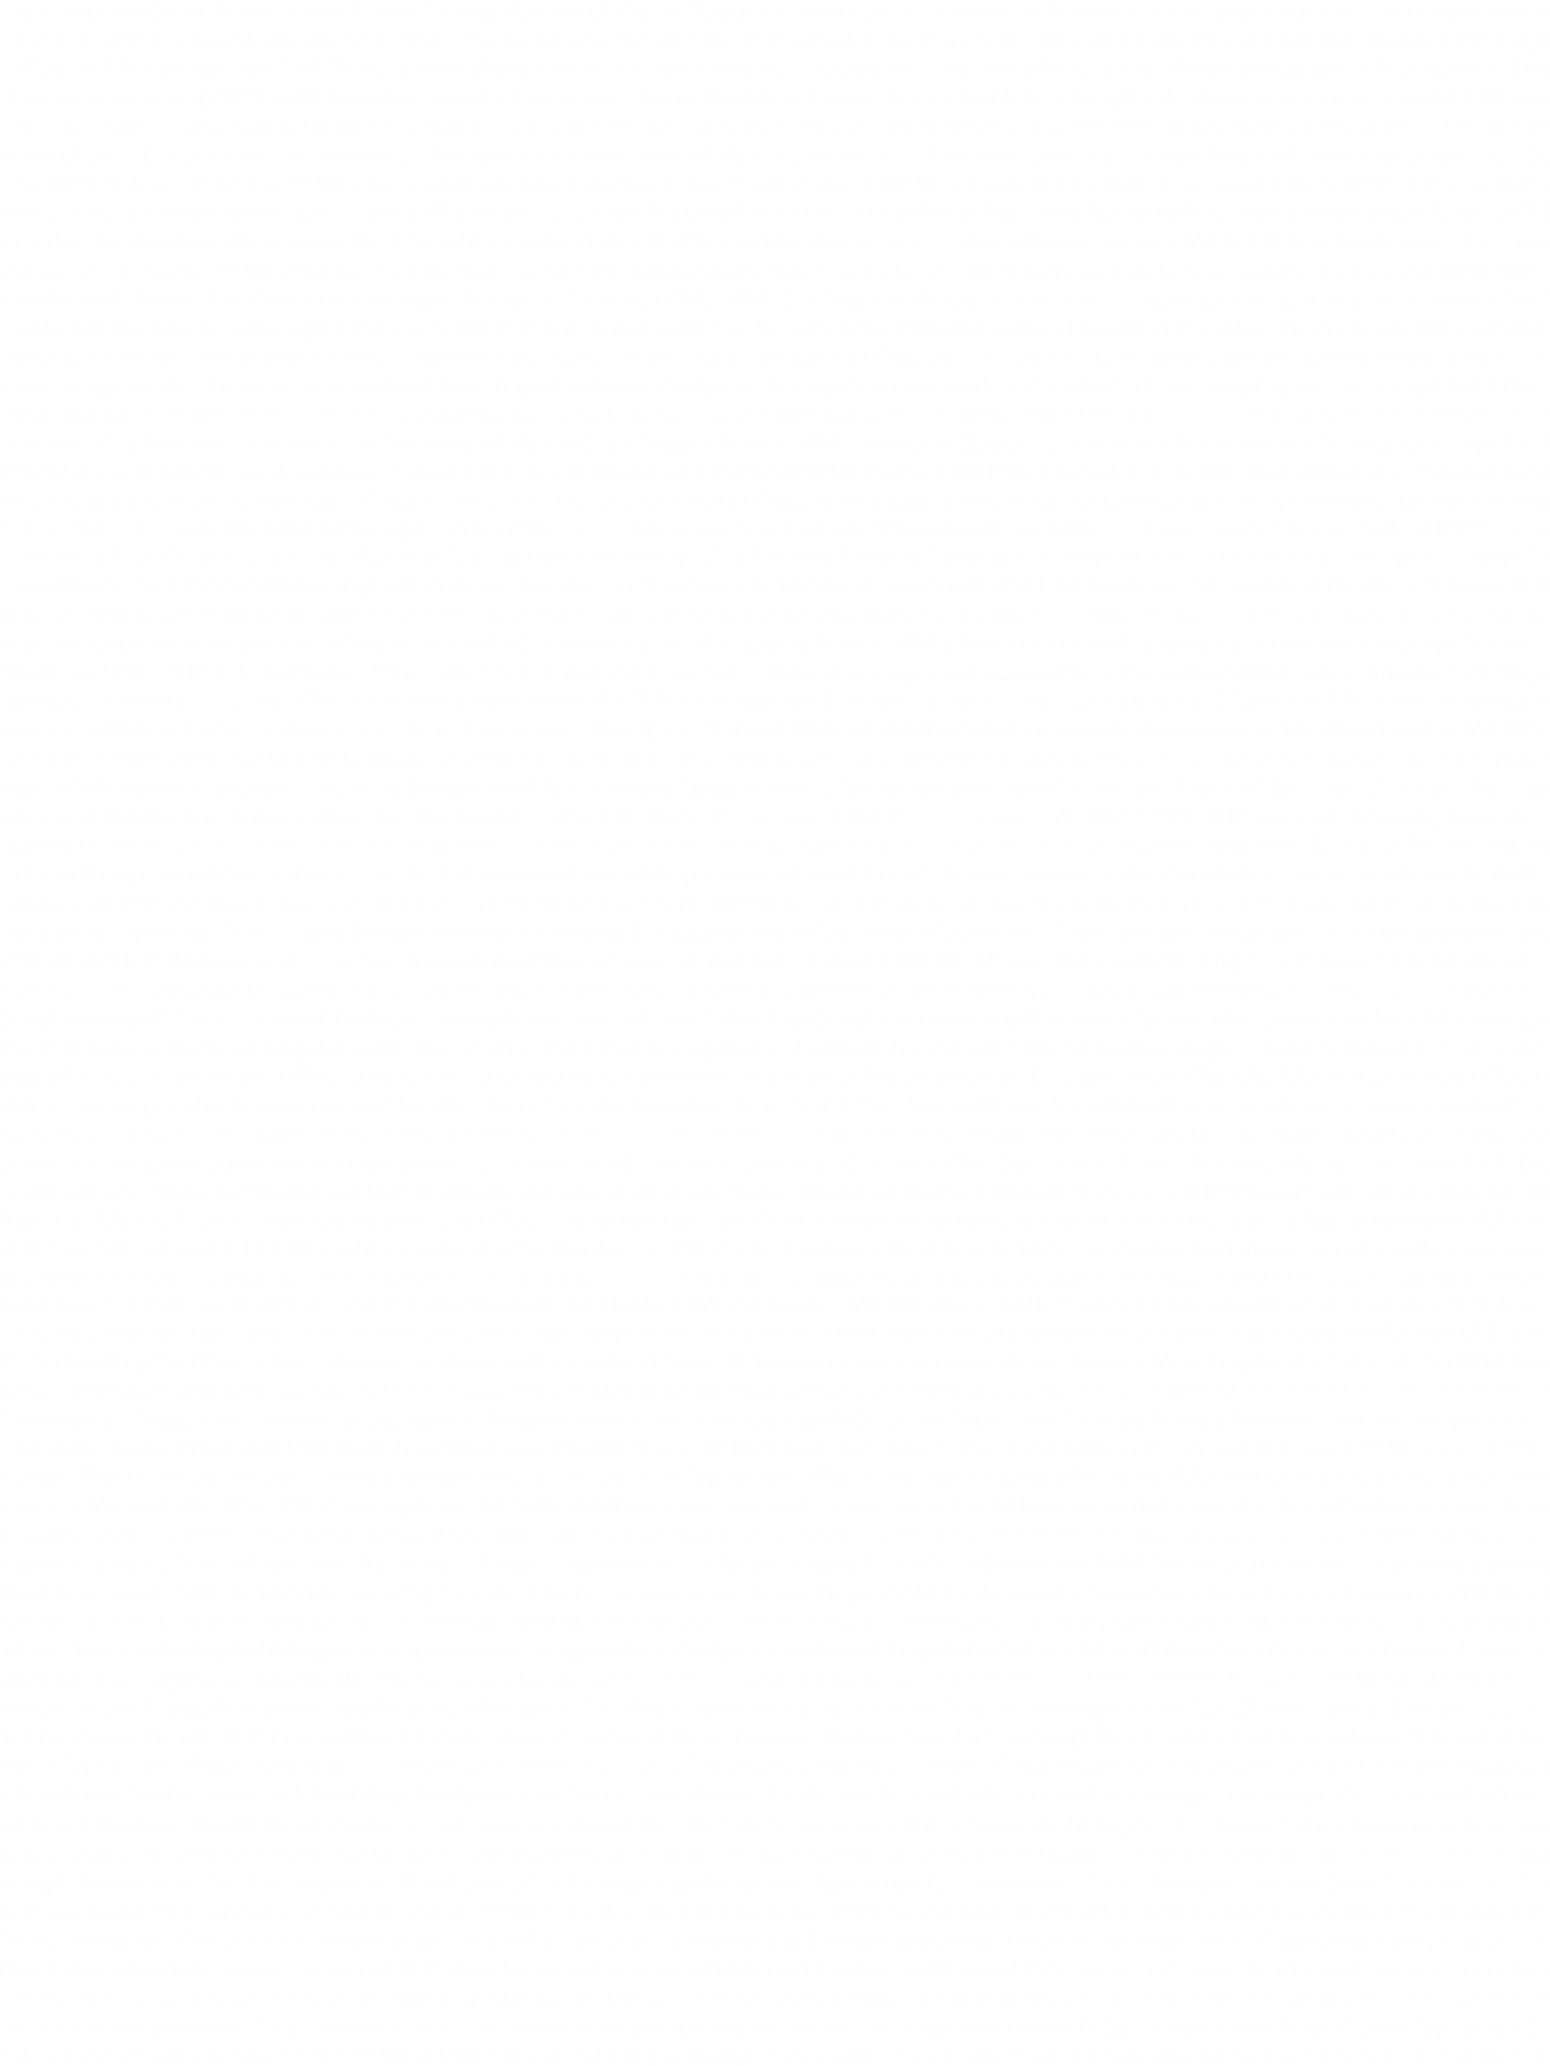
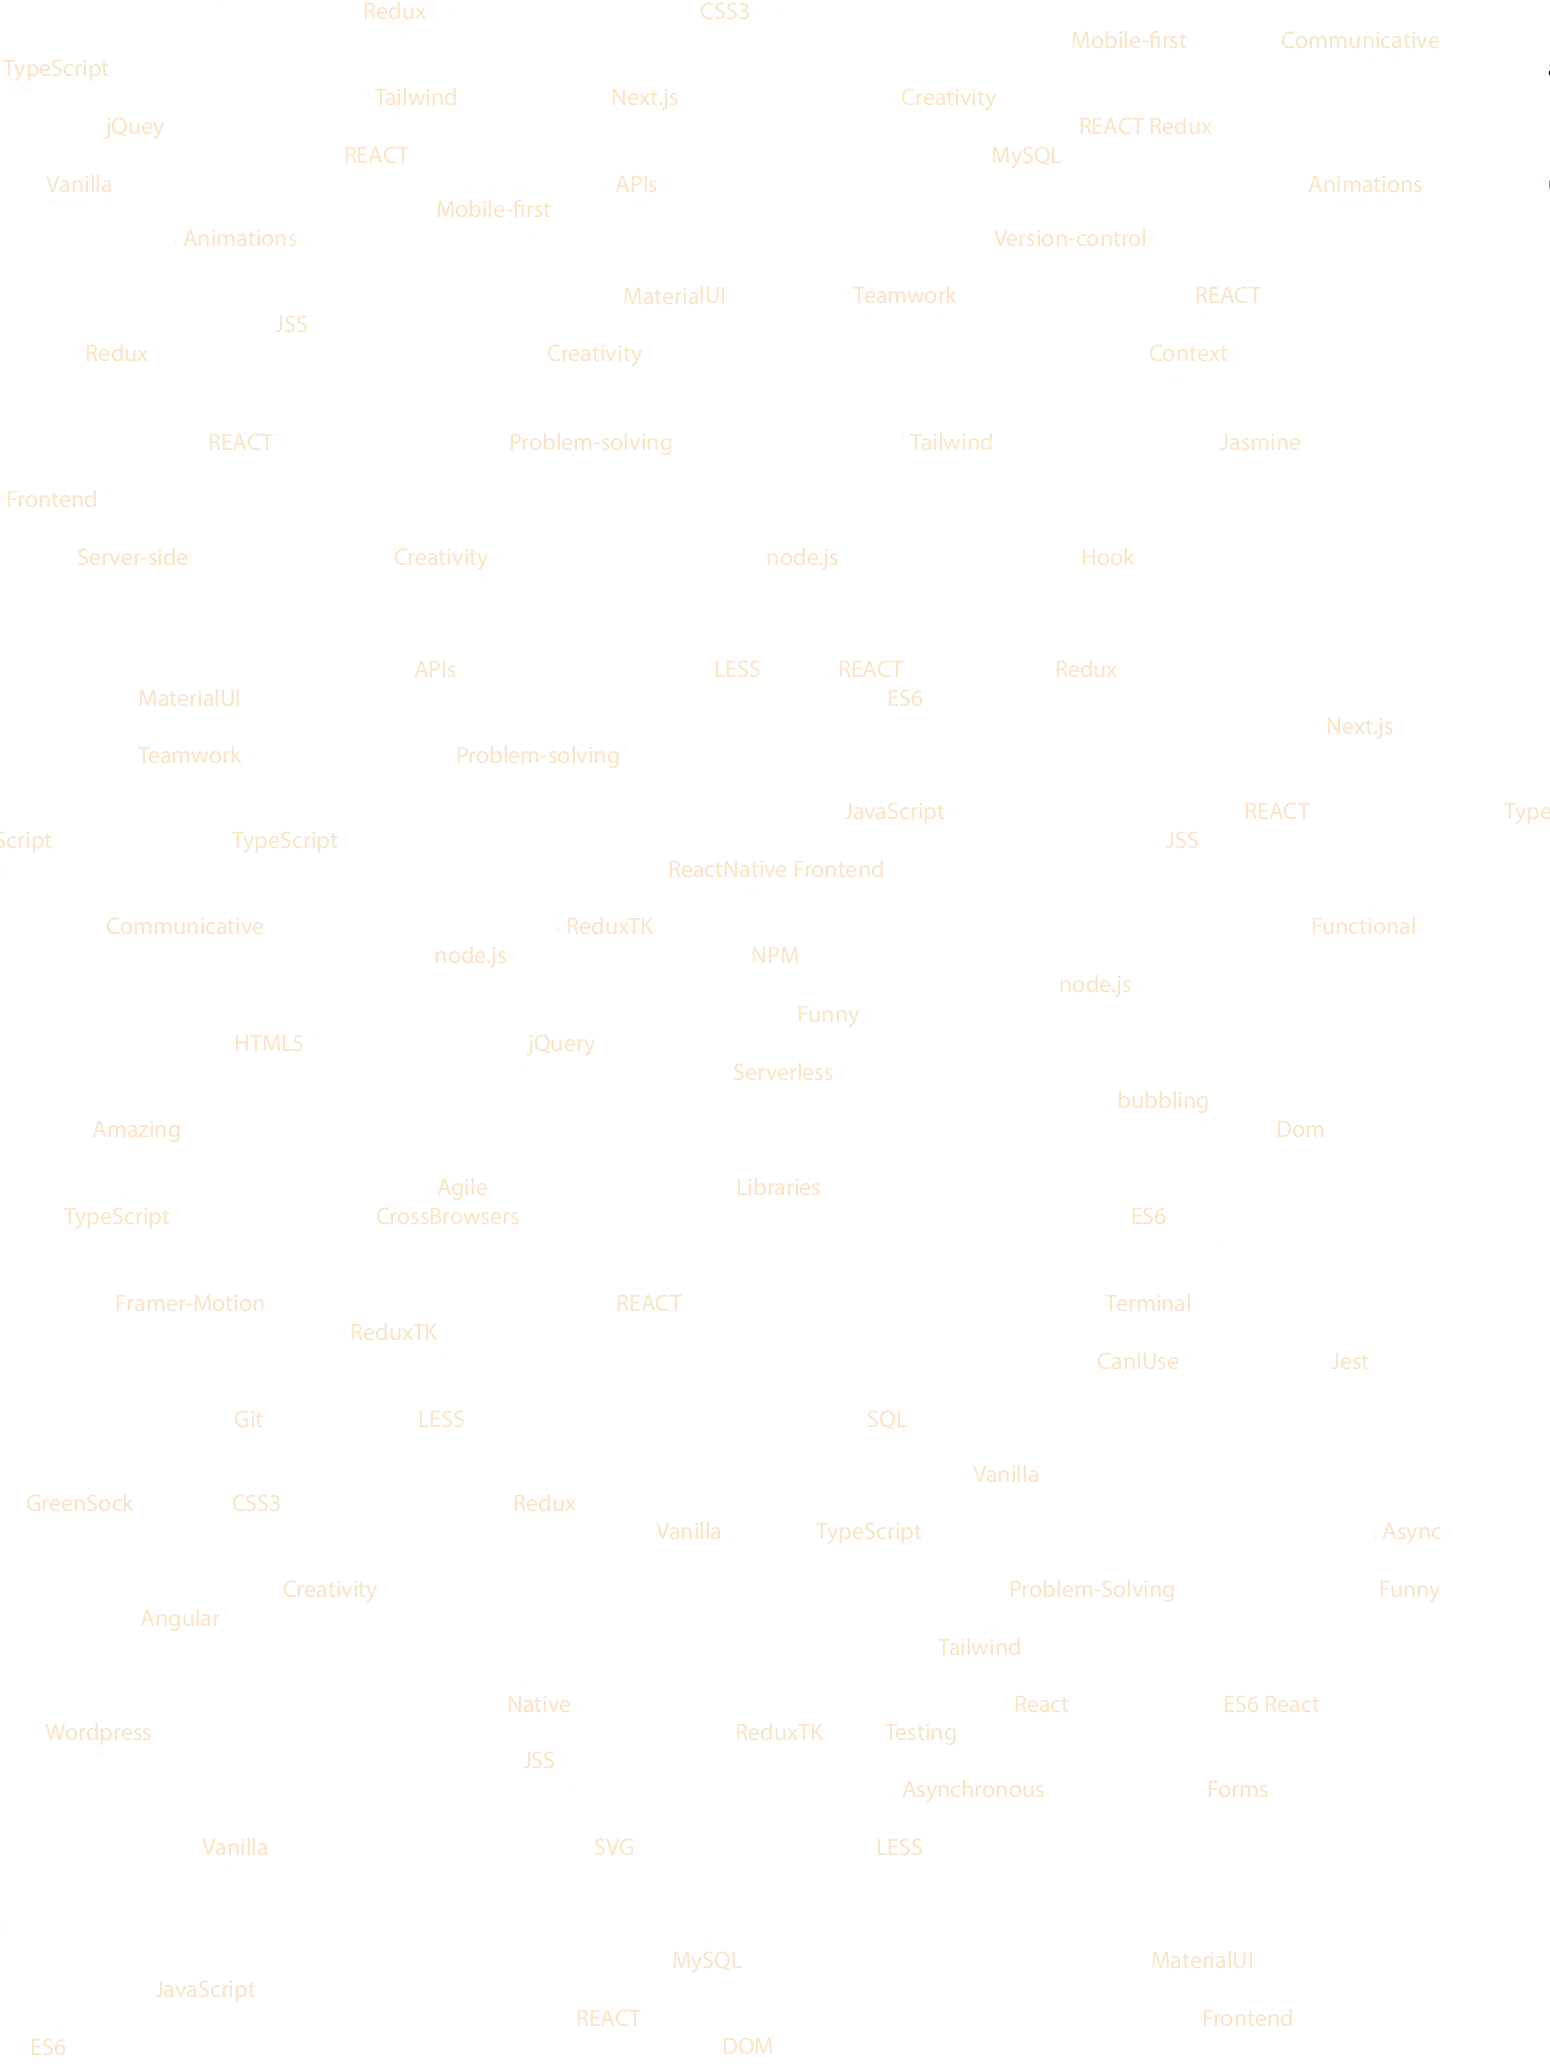
scrolling bg included with colors fixed design

diff --git a/src/Components/MainContent/Projects/LazyProject/LazyProject.jsx b/src/Components/MainContent/Projects/LazyProject/LazyProject.jsx
@@ -11,14 +11,14 @@ import ddbc from "../mp4/ddbc.mp4";
 import { isMobileSafari } from "react-device-detect";
 
 const LazyProject = ({ width, height, src, title, description, ...rest }) => {
+  const { current, numOfProjects } = rest;
   const wrapper = useRef();
   const [hasShown, setHasShown] = useState(false);
   const theme = useTheme();
   const videoPlayer = useRef();
+  const isXs = useMediaQuery(theme.breakpoints.down("sm"));
 
   const [isPlay, setIsPlay] = useState(false);
-
-  const isXs = useMediaQuery(theme.breakpoints.down("sm"));
 
   const { ref, inView, entry } = useInView({
     threshold: [0.2, 0.4],
@@ -57,6 +57,7 @@ const LazyProject = ({ width, height, src, title, description, ...rest }) => {
     // }
     setIsPlay(inView);
   }, [inView]);
+  console.log(current, numOfProjects);
 
   return (
     <motion.div
@@ -66,9 +67,10 @@ const LazyProject = ({ width, height, src, title, description, ...rest }) => {
         display: "flex",
         justifyContent: "center",
         alignItems: "center",
-        marginBottom: !isXs ? "150px" : "130px",
+        marginBottom: current + 1 == numOfProjects ? "-20rem" : "14rem",
         minHeight: !isXs ? "530px" : "100px",
         flexDirection: "column",
+        minHeight: "60vh",
       }}
       variants={variants}
     >

diff --git a/src/Components/LogoAvatar/LogoAvatar.jsx b/src/Components/LogoAvatar/LogoAvatar.jsx
@@ -11,13 +11,14 @@ const LogoAvatar = () => {
   const canvasRef = useRef(null);
   const theme = useTheme();
   const isSmall = useMediaQuery(theme.breakpoints.down("sm"));
+  const isXs = useMediaQuery(theme.breakpoints.down("xs"));
   const screen1080p = useMediaQuery("(max-width:1920px)");
 
   const useStyles = makeStyles({
     root: {
       display: "flex",
       // width: "90%",
-      height: "60vh",
+      height: !isSmall ? "60vh" : "75vh",
       // overflow: "hidden",
       justifyContent: "center",
       boxShadow: "0 0 89px 0px black",
@@ -30,12 +31,16 @@ const LogoAvatar = () => {
       display: "flex",
       justifyContent: "center",
       alignItems: "center",
-      background: "rgba(0, 0, 0, 0.7)",
+      background: "rgba(0, 0, 0, 0.4)",
       width: "94%",
     },
     canvas: {
       padding: "10px",
       maxWidth: "20rem",
+      backgroundColor: "#00000085",
+      borderRadius: "50%",
+      border: "5px solid #ffffff5c",
+      width: !isSmall ? "100%" : "80%",
     },
   });
 

diff --git a/src/Components/MainContent/AboutMe/AboutMe.jsx b/src/Components/MainContent/AboutMe/AboutMe.jsx
@@ -190,7 +190,7 @@ const AboutMe = () => {
                         style={{
                           background: "rgba(74, 66, 66, 0.12)",
                           padding: "5px",
-                          lineHeight: isXs ? "1.40em" : "1.85em",
+                          lineHeight: 1,
                         }}
                       >
                         {myText.firstP.split(" ").map((word, wi) => {
@@ -239,7 +239,7 @@ const AboutMe = () => {
                           style={{
                             background: "rgba(74, 66, 66, 0.12)",
                             padding: " 0 5px",
-                            lineHeight: isXs ? "1.40em" : "1.55em",
+                            lineHeight: 1,
                           }}
                         >
                           {myText.secondP.split(" ").map((word, wi) => {

diff --git a/src/Components/MainContent/Projects/Projects.jsx b/src/Components/MainContent/Projects/Projects.jsx
@@ -204,6 +204,8 @@ const Projects = () => {
           {projects.map((proj, i) => (
             <LazyProject
               key={i}
+              current={i}
+              numOfProjects={projects.length}
               width={proj.width}
               height={proj.height}
               title={proj.title}

diff --git a/src/Components/App.jsx b/src/Components/App.jsx
@@ -111,6 +111,7 @@ function App() {
             }}
             animate={{
               backgroundPosition: ["-5rem 0px", "-5rem 999999px"],
+              filter: "grayscale(100%)",
             }}
           />
           <div
